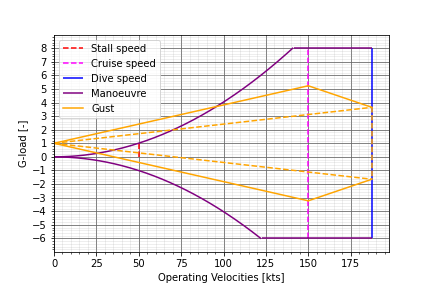
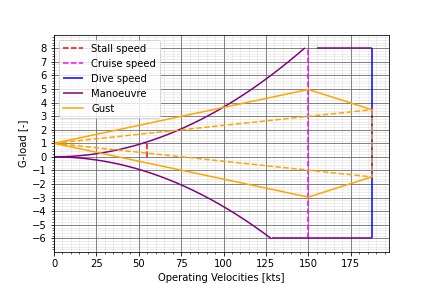
Created Vn diagram for 2 persons

Changed region(s): [[0.1505, 0.1562, 0.8727, 0.8438]]

diff --git a/Performance/manoeuvreDiagram.py b/Performance/manoeuvreDiagram.py
@@ -7,15 +7,15 @@ kts = 1/0.5144444
 metersps = 1/kts
 
 density = 1.225
-MAC = 1.5
+MAC = 1.46
 S = 12.3
-W = 888 * 9.80065
+W = 978 * 9.80065
 CLmax = 1.6
 CLalpha = 0.11 * (180 / np.pi)
 a = CLalpha * 1.1
-CNmax = CLmax * 1.1
-n_max = 8
-n_min = -6
+CNmax = CLmax * 1
+n_max = 6
+n_min = -4
 wing_loading = W / S
 
 mu_g = (2 * wing_loading) / (density * MAC * a * 9.80065)
@@ -27,7 +27,6 @@ V = np.linspace(0, 160 * metersps, 1000)
 V_cruise = 150 * 0.514444
 V_dive = 1.25 * V_cruise
 q = 0.5 * V ** 2  * density
-
 
 n_pos = (q * CNmax * S) / W
 n_neg = (q * -CNmax * S) / W
@@ -43,12 +42,12 @@ n_gust_dive_pos = 1 + ((k_g * density * U_de_dive * V_dive * a) / (2 * wing_load
 n_gust_dive_neg = 1 - ((k_g * density * U_de_dive * V_dive * a) / (2 * wing_loading))
 
 for i in range(len(V)):
-    if mt.isclose(n_pos[i], 1, rel_tol=0.01):
-        V_stall = V[i]
-    if mt.isclose(n_neg[i], -6, rel_tol=0.01):
+    # if mt.isclose(n_pos[i], 1, rel_tol=0.01):
+    #     V_stall = V[i]
+    if mt.isclose(n_neg[i], n_min, rel_tol=0.01):
         V_prime = V[i]
 
-V_stall = 50 * metersps
+V_stall = (W /(0.5*density*CLmax*S))**0.5
 V_manu = V_stall * np.sqrt(n_max)
 
 plt.xlim(0, V_dive*kts+10)
@@ -68,8 +67,8 @@ plt.vlines(
     linestyle="--",
 )
 
-n_pos = [n_pos[i] for i in range(len(n_pos)) if n_pos[i] <=8]
-n_neg = [n_neg[i] for i in range(len(n_neg)) if n_neg[i] >=-6]
+n_pos = [n_pos[i] for i in range(len(n_pos)) if n_pos[i] <=n_max]
+n_neg = [n_neg[i] for i in range(len(n_neg)) if n_neg[i] >=n_min]
 
 plt.vlines(V_dive*kts , ymax=n_max, ymin=n_min, color="Blue", label="Dive speed")
 
@@ -100,6 +99,6 @@ plt.yticks(np.arange(-6,9,1))
 plt.legend(loc="upper left")
 plt.xlabel("Operating Velocities [kts]")
 plt.ylabel("G-load [-]")
-plt.savefig("vndiagram")
+plt.savefig("vndiagram2P")
 plt.show()
 #%%
